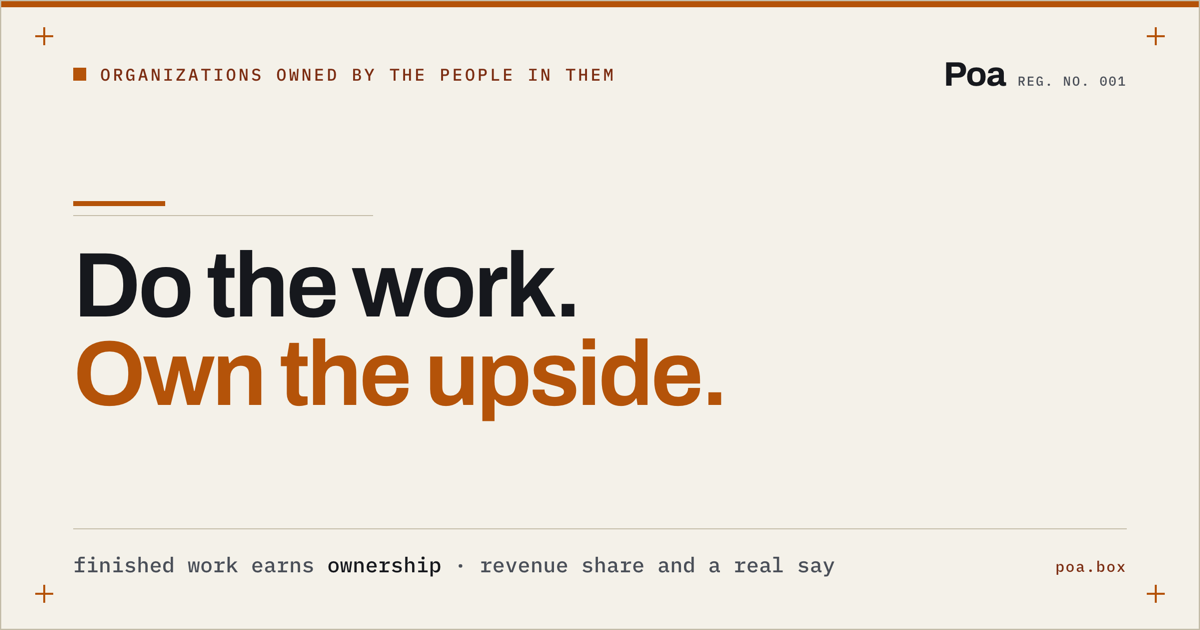
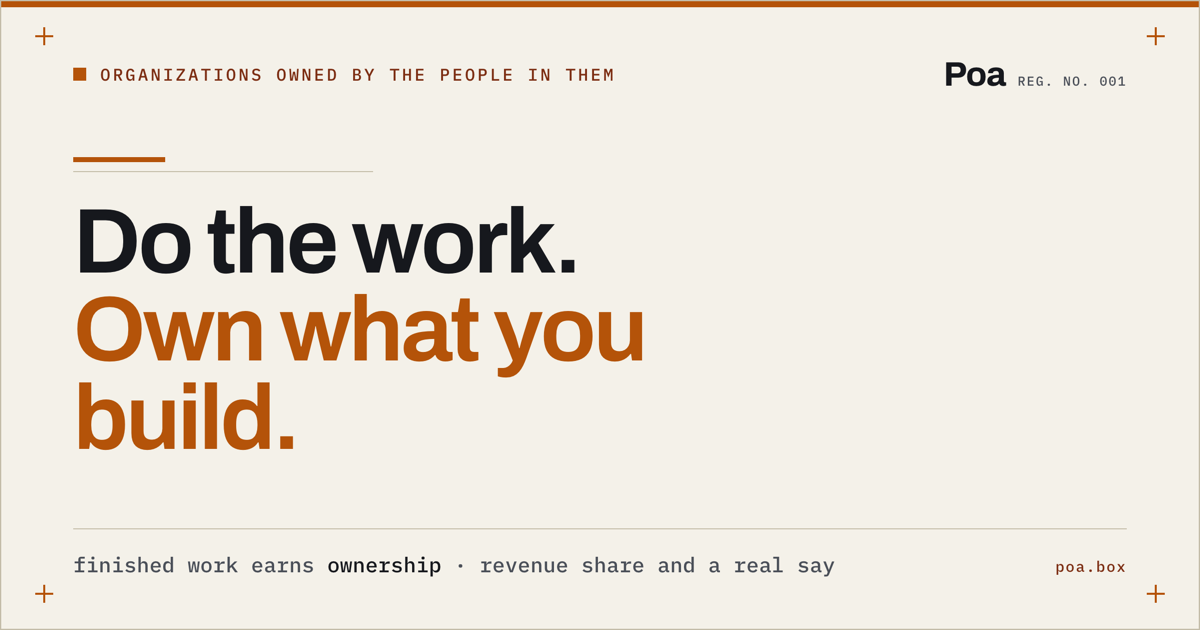
feat(marketing): P6 ship Gate 2 copy (upside composite)
Judge-panel winner: hero becomes 'Do the work. Own what you build.'
with the earned-never-bought subline; problem section opens on 'The
group is real. The tools were never built for it.'; money heading and
ethos plate kept; OG image regenerated to match.

Changed region(s): [[0.0617, 0.3016, 0.6167, 0.7238], [0.0617, 0.2413, 0.1542, 0.2714]]

diff --git a/poa-app/src/components/marketing/protoCopy.js b/poa-app/src/components/marketing/protoCopy.js
@@ -14,9 +14,9 @@ export const PROTO_COPY = {
 
   hero: {
     eyebrow: 'Organizations owned by the people in them',
-    headline: 'Do the work. Own the upside.',
+    headline: 'Do the work. Own what you build.',
     subline:
-      'On Poa, finished work earns you real ownership: a share of the revenue and a say in the decisions. It cannot be bought, only earned.',
+      'On Poa, the work you finish earns you real ownership. A share of the money when your organization distributes revenue, and a real say in the decisions. It is earned, never bought.',
     ctaPrimary: 'Start an organization',
     ctaSecondary: 'See how it works',
     quiet: 'An account is a username and a passkey. Poa charges nothing.',
@@ -26,7 +26,7 @@ export const PROTO_COPY = {
     kicker: 'The upside',
     heading: 'Your work becomes your share',
     lead:
-      'Most groups run on effort that is never written down. The people doing the most own nothing. Poa turns approved work into ownership, in the open, by rules the group chooses.',
+      'Most groups run on effort that is never written down, and the people doing the most own nothing. Poa turns approved work into ownership, in the open, by rules the group sets for itself.',
     items: [
       {
         title: 'Ownership is earned',

diff --git a/poa-app/src/components/marketing/landingCopy.js b/poa-app/src/components/marketing/landingCopy.js
@@ -24,7 +24,7 @@ import { PROTO_COPY } from '@/components/marketing/protoCopy';
 
 export const HERO = {
   eyebrow: PROTO_COPY.hero.eyebrow, // "Organizations owned by the people in them"
-  headline: PROTO_COPY.hero.headline, // "Do the work. Own the upside."
+  headline: PROTO_COPY.hero.headline, // "Do the work. Own what you build."
   subline: PROTO_COPY.hero.subline,
   ctaPrimary: PROTO_COPY.hero.ctaPrimary, // "Start an organization"
   ctaSecondary: PROTO_COPY.hero.ctaSecondary, // "See how it works"
@@ -110,7 +110,7 @@ export const PROBLEM = {
   kicker: 'The problem',
   heading: 'From a group chat to an organization',
   lead:
-    'A group forms, the work starts, and it grows on trust and good will. Then it gets big enough that trust alone stops holding it together.',
+    'The group is real. The tools were never built for it. The work starts, trust and good will carry it, and then the group gets big enough that trust alone stops holding it together.',
   items: [
     {
       title: 'The work goes untracked',